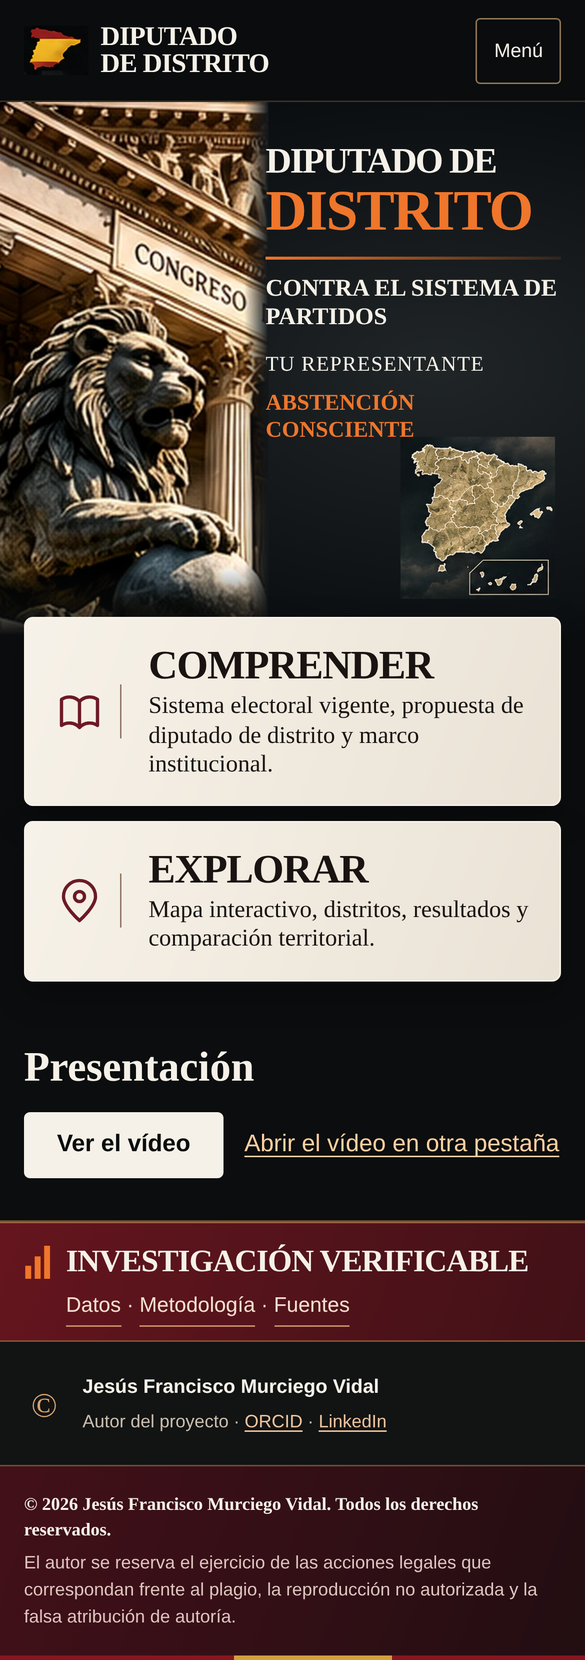
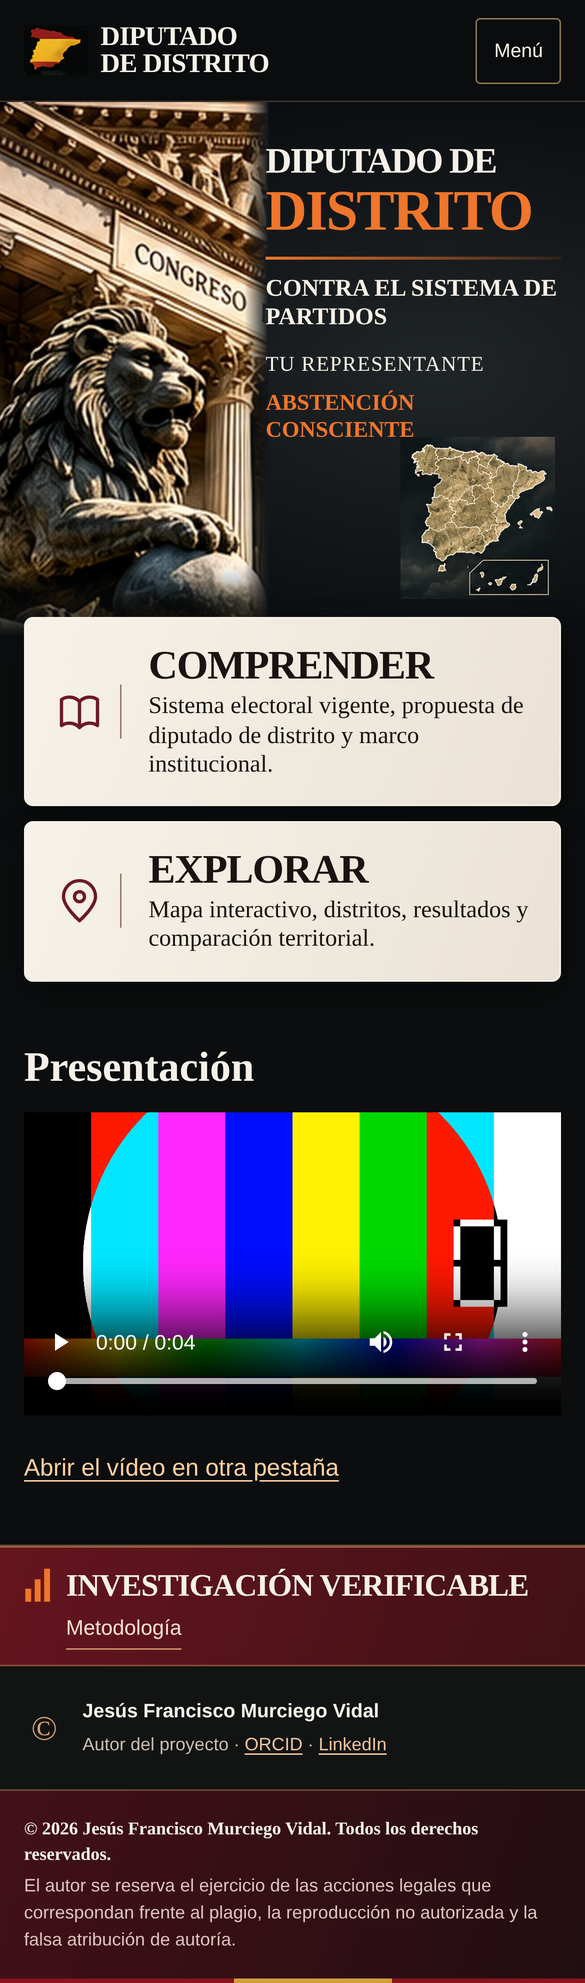
T-423: menú A (sin Datos ni Fuentes), vídeo de la portada desplegado sin autoplay, capturas nuevas
Claude-Session: https://claude.ai/code/session_01KQDtFsC2VMcbX4f4oMfUoC

diff --git a/visor/v4/app.js b/visor/v4/app.js
@@ -2,9 +2,10 @@
   'use strict';
   let controller;
 
-  /* Vídeo de presentación: se pinta solo si video.json trae una ruta de vídeo. Sin ruta, el bloque queda oculto.
-     No se carga el reproductor hasta que la persona pulsa «Ver el vídeo»; sin reproducción automática. */
-  function initVideo(root, signal) {
+  /* Vídeo de presentación (T-423): se pinta solo si video.json trae una ruta de vídeo; sin ruta, el bloque queda oculto.
+     El reproductor se ve desplegado desde el principio, con su póster (o el primer fotograma) y los controles a la vista;
+     nunca se reproduce solo ni suena hasta que la persona pulsa play. */
+  function initVideo(root) {
     const sec = root.querySelector('[data-video]');
     if (!sec || typeof fetch !== 'function') return;
     fetch('video.json', {cache: 'no-cache'}).then(r => (r.ok ? r.json() : null)).then(cfg => {
@@ -14,24 +15,31 @@
       if (!/^https:\/\//.test(url)) return;
       const cuerpo = sec.querySelector('[data-video-cuerpo]');
       cuerpo.textContent = '';
-      const boton = document.createElement('button');
-      boton.type = 'button';
-      boton.className = 'video-boton';
-      boton.textContent = 'Ver el vídeo';
+      const v = document.createElement('video');
+      v.controls = true;
+      v.preload = 'metadata';
+      v.playsInline = true;
+      v.setAttribute('playsinline', '');
+      v.className = 'video-reproductor';
+      // sin póster, «#t=0.1» hace que el navegador muestre el primer fotograma (Safari no lo pinta con t=0)
+      v.src = cfg.poster ? url : url + '#t=0.1';
+      if (cfg.poster) v.poster = join(cfg.poster);
+      if (cfg.subtitulos) {
+        const tr = document.createElement('track');
+        tr.kind = 'subtitles';
+        tr.srclang = 'es';
+        tr.label = 'Español';
+        tr.src = join(cfg.subtitulos);
+        tr.default = true;
+        v.appendChild(tr);
+      }
+      cuerpo.appendChild(v);
       const enlace = document.createElement('a');
       enlace.className = 'video-enlace';
       enlace.href = url;
       enlace.rel = 'noopener';
       enlace.textContent = 'Abrir el vídeo en otra pestaña';
-      if (cfg.poster) {
-        const img = document.createElement('img');
-        img.className = 'video-poster';
-        img.src = join(cfg.poster);
-        img.alt = '';
-        img.loading = 'lazy';
-        cuerpo.appendChild(img);
-      }
-      cuerpo.append(boton, enlace);
+      cuerpo.appendChild(enlace);
       if (cfg.transcripcion) {
         const t = document.createElement('a');
         t.className = 'video-enlace';
@@ -40,26 +48,6 @@
         t.textContent = 'Transcripción';
         cuerpo.appendChild(t);
       }
-      boton.addEventListener('click', () => {
-        const v = document.createElement('video');
-        v.controls = true;
-        v.preload = 'metadata';
-        v.playsInline = true;
-        v.src = url;
-        if (cfg.poster) v.poster = join(cfg.poster);
-        if (cfg.subtitulos) {
-          const tr = document.createElement('track');
-          tr.kind = 'subtitles';
-          tr.srclang = 'es';
-          tr.label = 'Español';
-          tr.src = join(cfg.subtitulos);
-          tr.default = true;
-          v.appendChild(tr);
-        }
-        cuerpo.textContent = '';
-        cuerpo.appendChild(v);
-        v.focus();
-      }, {signal});
       sec.hidden = false;
     }).catch(() => {});
   }

diff --git a/tests/test_visor_v4_video.js b/tests/test_visor_v4_video.js
@@ -1,0 +1,39 @@
+/* PROYECTO: Diputado de Distrito · CLASE: prueba del vídeo de la portada V4 (T-423)
+ * VERSIÓN: 1.0.0 · FECHA: 2026-11-19 · ESTADO: candidato · ANTERIOR: ninguna (fichero nuevo)
+ * CAMBIOS: el reproductor se ve desplegado sin pulsar nada (controles, primer fotograma o póster), sin reproducción automática ni sonido. */
+"use strict";
+const assert = require("node:assert/strict"), fs = require("node:fs"), path = require("node:path"), vm = require("node:vm");
+const src = fs.readFileSync(path.join(__dirname, "../visor/v4/app.js"), "utf8");
+function nodo(tag) { return { tag, children: [], attrs: {}, textContent: "", appendChild(c) { this.children.push(c); return c; }, setAttribute(k, v) { this.attrs[k] = v; },
+  addEventListener() {}, querySelector() { return null; }, querySelectorAll() { return []; }, classList: { add() {}, toggle() {}, remove() {}, contains() { return false; } } }; }
+async function correr(cfg) {
+  const cuerpo = nodo("div"), sec = { hidden: true, querySelector: q => (q === "[data-video-cuerpo]" ? cuerpo : null) };
+  const document = { readyState: "complete", documentElement: nodo("html"), createElement: nodo, addEventListener() {},
+    querySelector: q => (q === "[data-video]" ? sec : null), querySelectorAll: () => [] };
+  const ctx = { document, window: {}, AbortController, console, fetch: async u => ({ ok: u === "video.json", json: async () => cfg }) };
+  ctx.window = ctx; ctx.document.defaultView = ctx;
+  vm.runInNewContext(src, ctx);
+  for (let i = 0; i < 10; i++) await new Promise(r => setImmediate(r));
+  return { sec, cuerpo };
+}
+(async () => {
+  // 1. Sin póster: reproductor visible al cargar, con controles y el primer fotograma; sin autoplay, sin botón previo.
+  let { sec, cuerpo } = await correr({ base: "https://media.diputadodedistrito.es/", video: "Video_DDD.mp4", poster: "", subtitulos: "", transcripcion: "" });
+  assert.equal(sec.hidden, false, "el bloque del vídeo se ve sin pulsar nada");
+  const v = cuerpo.children[0];
+  assert.equal(v.tag, "video", "lo primero es el reproductor, no un botón");
+  assert.equal(v.controls, true); assert.equal(v.preload, "metadata"); assert.equal(v.playsInline, true);
+  assert.equal(v.src, "https://media.diputadodedistrito.es/Video_DDD.mp4#t=0.1", "primer fotograma visible");
+  assert.ok(!v.autoplay && !("autoplay" in v.attrs), "sin reproducción automática");
+  assert.ok(!cuerpo.children.some(c => c.tag === "button"), "sin botón «Ver el vídeo»");
+  // 2. Con póster: lo usa y no añade el fragmento de tiempo.
+  ({ cuerpo } = await correr({ base: "https://media.diputadodedistrito.es", video: "/v.mp4", poster: "p.webp", subtitulos: "", transcripcion: "" }));
+  assert.equal(cuerpo.children[0].poster, "https://media.diputadodedistrito.es/p.webp");
+  assert.equal(cuerpo.children[0].src, "https://media.diputadodedistrito.es/v.mp4");
+  // 3. Sin vídeo configurado o con URL no https: el bloque sigue oculto.
+  ({ sec } = await correr({ base: "https://media.diputadodedistrito.es/", video: "", poster: "", subtitulos: "", transcripcion: "" }));
+  assert.equal(sec.hidden, true);
+  ({ sec } = await correr({ base: "http://x.es/", video: "v.mp4", poster: "", subtitulos: "", transcripcion: "" }));
+  assert.equal(sec.hidden, true);
+  console.log("OK vídeo de la portada V4 desplegado");
+})().catch(e => { console.error(e); process.exitCode = 1; });

diff --git a/visor/v4/index.html b/visor/v4/index.html
@@ -12,7 +12,7 @@
 <a class="brand" href="index.html" aria-label="Diputado de Distrito, inicio"><img src="assets/logotipo_espana.webp" alt="" width="59" height="47"><span>DIPUTADO<br>DE DISTRITO</span></a>
 <button class="menu-toggle" type="button" data-menu aria-expanded="false" aria-controls="main-nav">Menú</button>
 <nav class="main-nav" id="main-nav" data-nav aria-label="Navegación principal">
-<a href="index.html" aria-current="page">Inicio</a><a href="comprender.html">Comprender</a><a href="mapa/">Explorar</a><a href="../docs/datos-abiertos.html">Datos</a><a href="../docs/metodo.html">Metodología</a><a href="../docs/fuentes.html">Fuentes</a>
+<a href="index.html" aria-current="page">Inicio</a><a href="comprender.html">Comprender</a><a href="mapa/">Explorar</a><a href="../docs/metodo.html">Metodología</a>
 </nav></div></header>
 <main id="contenido" tabindex="-1">
 <section class="hero" aria-labelledby="titulo-principal"><div class="hero-photo" aria-hidden="true"><img src="assets/congreso.webp" alt="" width="1016" height="598" fetchpriority="high" decoding="async"></div><figure class="hero-map" aria-hidden="true"><img src="assets/mapa_espana.webp" alt="" width="738" height="774" decoding="async"></figure><div class="wrap"><div class="hero-content">
@@ -27,7 +27,7 @@
 <section class="presentacion" id="presentacion" aria-labelledby="presentacion-titulo" data-video hidden>
 <div class="wrap"><h2 id="presentacion-titulo">Presentación</h2><div class="presentacion-cuerpo" data-video-cuerpo></div></div>
 </section>
-<section class="research" id="investigacion"><div class="wrap research-inner"><h2><svg class="research-icon" aria-hidden="true" viewBox="0 0 24 28"><path d="M1 17h5v11H1zM9 9h5v19H9zM17 0h5v28h-5z"/></svg>INVESTIGACIÓN VERIFICABLE</h2><p><a href="../docs/datos-abiertos.html">Datos</a> · <a href="../docs/metodo.html">Metodología</a> · <a href="../docs/fuentes.html">Fuentes</a></p></div></section>
+<section class="research" id="investigacion"><div class="wrap research-inner"><h2><svg class="research-icon" aria-hidden="true" viewBox="0 0 24 28"><path d="M1 17h5v11H1zM9 9h5v19H9zM17 0h5v28h-5z"/></svg>INVESTIGACIÓN VERIFICABLE</h2><p><a href="../docs/metodo.html">Metodología</a></p></div></section>
 <section class="audit-ribbon" aria-label="Registro y autoría"><div class="wrap audit-ribbon-inner">
 
 <div class="author-short"><span class="author-mark" aria-hidden="true">©</span><div><strong>Jesús Francisco Murciego Vidal</strong><span>Autor del proyecto · <a href="https://orcid.org/0009-0002-4434-959X" target="_blank" rel="noopener noreferrer">ORCID</a> · <a href="https://www.linkedin.com/in/jesusmurciego/" target="_blank" rel="noopener noreferrer">LinkedIn</a></span></div></div>

diff --git a/visor/v4/comprender.html b/visor/v4/comprender.html
@@ -4,7 +4,7 @@
 <a class="brand" href="index.html" aria-label="Diputado de Distrito, inicio"><img src="assets/logotipo_espana.webp" alt="" width="59" height="47"><span>DIPUTADO<br>DE DISTRITO</span></a>
 <button class="menu-toggle" type="button" data-menu aria-expanded="false" aria-controls="main-nav">Menú</button>
 <nav class="main-nav" id="main-nav" data-nav aria-label="Navegación principal">
-<a href="index.html">Inicio</a><a href="comprender.html" aria-current="page">Comprender</a><a href="mapa/">Explorar</a><a href="../docs/datos-abiertos.html">Datos</a><a href="../docs/metodo.html">Metodología</a><a href="../docs/fuentes.html">Fuentes</a>
+<a href="index.html">Inicio</a><a href="comprender.html" aria-current="page">Comprender</a><a href="mapa/">Explorar</a><a href="../docs/metodo.html">Metodología</a>
 </nav></div></header>
 <main id="contenido" tabindex="-1"><section class="detail-hero"><div class="wrap"><div class="kicker">Sistema representativo · Contexto del proyecto</div><h1>Comprender</h1><p>El proyecto plantea una representación vinculada al territorio. Esta página introduce sus conceptos y da acceso a los mapas y a sus publicaciones.</p></div></section><div class="wrap detail-content"><section class="detail-panel"><header><h2>Sistema y distritos</h2></header><div class="contents"><p>La circunscripción delimita el territorio al que se atribuyen escaños. Un mapa electoral permite explorar criterios de delimitación, población, relación entre territorio y representación, y resultados agregados.</p><p>La propuesta Diputado de Distrito plantea una estructura de representación territorial que debe distinguirse de los resultados de elecciones celebradas bajo el sistema vigente.</p><p><a class="page-action" href="mapa/">Abrir el visor interactivo</a></p></div></section><aside class="detail-panel"><header><h2>Publicaciones y datos</h2></header><div class="contents"><p>La investigación se documentará con metodología, fuentes, versiones y registro individual de cada mapa.</p></div></aside></div><section class="doble-vuelta" id="doble-vuelta" aria-labelledby="dv-titulo">
 <div class="wrap">

diff --git a/visor/v4/auditoria-registro.html b/visor/v4/auditoria-registro.html
@@ -4,7 +4,7 @@
 <a class="brand" href="index.html" aria-label="Diputado de Distrito, inicio"><img src="assets/logotipo_espana.webp" alt="" width="59" height="47"><span>DIPUTADO<br>DE DISTRITO</span></a>
 <button class="menu-toggle" type="button" data-menu aria-expanded="false" aria-controls="main-nav">Menú</button>
 <nav class="main-nav" id="main-nav" data-nav aria-label="Navegación principal">
-<a href="index.html">Inicio</a><a href="comprender.html">Comprender</a><a href="mapa/">Explorar</a><a href="../docs/datos-abiertos.html">Datos</a><a href="../docs/metodo.html">Metodología</a><a href="../docs/fuentes.html">Fuentes</a>
+<a href="index.html">Inicio</a><a href="comprender.html">Comprender</a><a href="mapa/">Explorar</a><a href="../docs/metodo.html">Metodología</a>
 </nav></div></header>
 <main id="contenido" tabindex="-1"><section class="detail-hero"><div class="wrap"><div class="kicker">Publicaciones · Procedencia · Derechos</div><h1>Auditoría y registro</h1><p>Cada mapa tiene su propia ficha de publicación. Consulta su DOI, la versión documentada y la información de autoría.</p></div></section>
 <div class="wrap detail-content"><section class="detail-panel" aria-labelledby="doi-title"><header><h2 id="doi-title">DOI de cada mapa</h2></header><div class="contents"><p>El DOI corresponde a cada mapa y a la publicación que documenta su versión. Cada ficha reúne su ámbito territorial, fecha y procedencia.</p><label class="catalog-label" for="search-map">Buscar mapa registrado</label><input class="catalog-search" id="search-map" data-doi-search type="search" placeholder="Mapa, provincia o comunidad autónoma"><div data-doi-list aria-live="polite"><p class="empty">Todavía no hay fichas de mapas incorporadas a este catálogo.</p></div><div class="provenance" id="procedencia"><h3>Procedencia de los recursos</h3><p>Las imágenes de portada son ilustraciones generadas elegidas para la identidad visual del proyecto. El mapa de la cabecera es decorativo; la cartografía y los datos se consultan en el visor.</p><a class="page-action" href="mapa/">Consultar el visor</a></div></div></section>

diff --git a/documentacion_publica/overrides/main.html b/documentacion_publica/overrides/main.html
@@ -1,5 +1,5 @@
 {#- PROYECTO: Diputado de Distrito · VERSIÓN: 1.0.0 · FECHA: 2026-11-19 · ESTADO: candidato
-    CAMBIOS: T-423, cabecera, menú único y pie de la V4 (visor/v4/index.html) en Datos, Metodología y Fuentes.
+    CAMBIOS: T-423, cabecera única (visor/v4/cabecera.html), menú y pie de la V4 en la documentación (Metodología).
     MOTIVO: todo el sitio dentro del diseño de la V4 (propietario, 19-11). ANTERIOR: ninguna (fichero nuevo) -#}
 {% extends "base.html" %}
 {% block header %}
@@ -8,7 +8,7 @@
 <a class="brand" href="../v4/index.html" aria-label="Diputado de Distrito, inicio"><img src="../v4/assets/logotipo_espana.webp" alt="" width="59" height="47"><span>DIPUTADO<br>DE DISTRITO</span></a>
 <button class="menu-toggle" type="button" data-menu aria-expanded="false" aria-controls="main-nav">Menú</button>
 <nav class="main-nav" id="main-nav" data-nav aria-label="Navegación principal">
-<a href="../v4/index.html">Inicio</a><a href="../v4/comprender.html">Comprender</a><a href="../v4/mapa/">Explorar</a><a href="datos-abiertos.html"{% if actual == "datos-abiertos.html" %} aria-current="page"{% endif %}>Datos</a><a href="metodo.html"{% if actual == "metodo.html" %} aria-current="page"{% endif %}>Metodología</a><a href="fuentes.html"{% if actual == "fuentes.html" %} aria-current="page"{% endif %}>Fuentes</a>
+<a href="../v4/index.html">Inicio</a><a href="../v4/comprender.html">Comprender</a><a href="../v4/mapa/">Explorar</a><a href="metodo.html"{% if actual == "metodo.html" %} aria-current="page"{% endif %}>Metodología</a>
 </nav></div></header>
 {% endblock %}
 {% block footer %}

diff --git a/visor/v4/cabecera.html b/visor/v4/cabecera.html
@@ -1,9 +1,9 @@
-<!-- Cabecera única de la V4 (T-423): todas las páginas (portada, Comprender, Explorar, Datos, Metodología, Fuentes y las internas)
+<!-- Cabecera única de la V4 (T-423): todas las páginas (portada, Comprender, Explorar, Metodología y las internas)
      la copian tal cual con {V4} = ruta a visor/v4/ y {DOCS} = ruta a las páginas de documentación; solo cambia aria-current.
      tests/test_visor_v4_base.py compara cada página con esta plantilla. -->
 <header class="site-header v4-header"><div class="wrap header-inner">
 <a class="brand" href="{V4}index.html" aria-label="Diputado de Distrito, inicio"><img src="{V4}assets/logotipo_espana.webp" alt="" width="59" height="47"><span>DIPUTADO<br>DE DISTRITO</span></a>
 <button class="menu-toggle" type="button" data-menu aria-expanded="false" aria-controls="main-nav">Menú</button>
 <nav class="main-nav" id="main-nav" data-nav aria-label="Navegación principal">
-<a href="{V4}index.html">Inicio</a><a href="{V4}comprender.html">Comprender</a><a href="{V4}mapa/">Explorar</a><a href="{DOCS}datos-abiertos.html">Datos</a><a href="{DOCS}metodo.html">Metodología</a><a href="{DOCS}fuentes.html">Fuentes</a>
+<a href="{V4}index.html">Inicio</a><a href="{V4}comprender.html">Comprender</a><a href="{V4}mapa/">Explorar</a><a href="{DOCS}metodo.html">Metodología</a>
 </nav></div></header>

diff --git a/visor/v4/mapa/index.html b/visor/v4/mapa/index.html
@@ -21,7 +21,7 @@
 <a class="brand" href="../index.html" aria-label="Diputado de Distrito, inicio"><img src="../assets/logotipo_espana.webp" alt="" width="59" height="47"><span>DIPUTADO<br>DE DISTRITO</span></a>
 <button class="menu-toggle" type="button" data-menu aria-expanded="false" aria-controls="main-nav">Menú</button>
 <nav class="main-nav" id="main-nav" data-nav aria-label="Navegación principal">
-<a href="../index.html">Inicio</a><a href="../comprender.html">Comprender</a><a href="../mapa/" aria-current="page">Explorar</a><a href="../../docs/datos-abiertos.html">Datos</a><a href="../../docs/metodo.html">Metodología</a><a href="../../docs/fuentes.html">Fuentes</a>
+<a href="../index.html">Inicio</a><a href="../comprender.html">Comprender</a><a href="../mapa/" aria-current="page">Explorar</a><a href="../../docs/metodo.html">Metodología</a>
 </nav></div></header>
 <div class="app">
   <nav class="modes" aria-label="Modalidad de análisis">

diff --git a/tests/test_visor_v4_base.py b/tests/test_visor_v4_base.py
@@ -58,7 +58,7 @@ class PortadaV4(unittest.TestCase):
     def test_cabecera_identica_en_todas_las_paginas(self):
         # T-423: una sola plantilla (visor/v4/cabecera.html); cada página la copia con sus rutas; solo cambia aria-current
         plantilla = _txt("cabecera.html").split("-->\n", 1)[1].strip()
-        self.assertEqual(plantilla.count("<a "), 7)  # marca + 6 del menú; sin botones a la derecha en ninguna página
+        self.assertEqual(plantilla.count("<a "), 5)  # marca + 4 del menú; sin botones a la derecha en ninguna página
         quitar = lambda h: re.sub(r'\{% if actual == "[^"]+" %\}|\{% endif %\}| aria-current="page"', "", h)
         paginas = {"index.html": ("", "../docs/"), "comprender.html": ("", "../docs/"), "auditoria-registro.html": ("", "../docs/"),
                    "mapa/index.html": ("../", "../../docs/")}
@@ -93,13 +93,17 @@ class PortadaV4(unittest.TestCase):
 
     def test_menu_unico_e_investigacion(self):
         # T-423: un solo menú en portada, Comprender y Explorar; «Investigación» enlaza Datos, Metodología y Fuentes
-        menu = ["Inicio", "Comprender", "Explorar", "Datos", "Metodología", "Fuentes"]
+        # opción A del propietario (19-11): Datos y Fuentes fuera del menú y de cualquier enlace visible de la V4
+        menu = ["Inicio", "Comprender", "Explorar", "Metodología"]
         for pag in ("index.html", "comprender.html", "mapa/index.html"):
             nav = re.search(r'<nav class="main-nav"[^>]*>(.*?)</nav>', _txt(pag), re.S).group(1)
             self.assertEqual(re.findall(r">([^<]+)</a>", nav), menu, pag)
         inv = re.search(r'id="investigacion".*?</section>', _txt("index.html"), re.S).group(0)
-        for ref in ("../docs/datos-abiertos.html", "../docs/metodo.html", "../docs/fuentes.html"):
-            self.assertIn(f'href="{ref}"', inv)
+        self.assertIn('href="../docs/metodo.html"', inv)
+        zens = (DOCS.parent / "overrides/main.html").read_text(encoding="utf-8")
+        toml = (DOCS.parent / "zensical.toml").read_text(encoding="utf-8")
+        for t in [_txt(p) for p in ("index.html", "comprender.html", "mapa/index.html", "cabecera.html", "app.js")] + [zens, toml, (DOCS / "index.md").read_text(encoding="utf-8")]:
+            self.assertNotRegex(t, r"datos-abiertos\.(html|md)|fuentes\.(html|md)")
 
     def test_sin_nomenclatura_vieja(self):
         for pag in PAGINAS:
@@ -140,6 +144,14 @@ class PortadaV4(unittest.TestCase):
         self.assertRegex(h, r'<section[^>]*data-video[^>]*\bhidden\b')
         self.assertNotIn("<video", h)  # el reproductor no se carga hasta pulsar
         self.assertNotRegex(_txt("app.js"), r"autoplay")
+
+    def test_video_desplegado_sin_autoplay(self):
+        # T-423: reproductor visible sin pulsar nada, con su fotograma o póster; sin reproducción automática ni sonido
+        import shutil, subprocess
+        if not shutil.which("node"):
+            self.skipTest("sin node")
+        r = subprocess.run(["node", str(V4.parent.parent / "tests/test_visor_v4_video.js")], capture_output=True, text=True)
+        self.assertEqual(r.returncode, 0, r.stdout + r.stderr)
 
     def test_doble_vuelta_en_comprender(self):
         h = _txt("comprender.html")

diff --git a/docs/registro/2026-11-19_t423-v4-v3-completa.md b/docs/registro/2026-11-19_t423-v4-v3-completa.md
@@ -1,6 +1,6 @@
 ## 2026-11-19 — T-423 — V4: portada + Explorar con la V3 completa y la doble vuelta como capa electoral
 
 **Causa.** Error de planificación: `visor/v4/mapa/` era un mapa simple en SVG, de un territorio cada vez, sin vista nacional ni secciones. El propietario: «era solo añadir una portada y mantener el resto de V3 enriqueciéndolo con la doble vuelta como capa electoral»; después, todo dentro del diseño de la V4 con un solo menú (Planificador, 19-11).
-**Cambio.** `visor/v4/mapa/` = copia íntegra de la V3 (`explorar.js`/`explorar.css`/`index.html`/`calendario.json`: MapLibre, vista nacional, comunidad, provincia, distrito, municipio y sección censal, calendario, paletas, paneles, procedencia, galería y tabla), rutas a `../../`, con cabecera, menú único (Inicio · Comprender · Explorar · Datos · Metodología · Fuentes), paleta y pie de la V4. Capa electoral nueva «Doble vuelta» (por defecto, D-172): «Tres bloques» (dv_A), «Dos bloques» (dv_B), «Sin coaliciones» (dv_base) y «Más votado» (primero); color por bloque (claro si la ventaja < 5 puntos), sección con el bloque de su distrito, ficha con 1.ª y 2.ª vuelta, transferencias y comparación entre reglas, aviso fijo «Simulación sin valor oficial». Lee `v4/mapa/datos/` (P40, `herramientas/publicar_doble_vuelta.py`, #927/#937) y verifica el sha256 de cada CSV; si no casa, ese territorio queda sin color (fallo cerrado). El mapa simple pasa a `legacy/visor/v4/mapa_simple_t413_20261119/`. Portada y Comprender: menú único; «Investigación» enlaza Datos, Metodología y Fuentes. Documentación pública (Zensical 1.2.0): tema V4 (`docs/estilos/v4.css`) y cabecera, menú y pie de la V4 (`overrides/main.html`). Cabecera única (`visor/v4/cabecera.html`, no se publica): todas las páginas de la V4 y de la documentación la copian igual (sin botones a la derecha; la ayuda de Explorar pasa a la barra del mapa). Texto visible con la nomenclatura P de D-165 (P21–P26, P31, P32) en Explorar y en Metodología, Datos y Archivo; ids de datos y ficheros intactos (T-313). `visor/v3/` no cambia; no toca workflows ni datos. Preview en `docs/ESTUDIOS/T423_V4/preview/` (datos de doble vuelta ficticios).
-**Pruebas.** `tests/test_visor_v4_mapa.py` 2.0.0: la V4 tiene todas las capas, niveles (incluida la sección), controles, capas MapLibre, funciones y fuentes de la V3; la V3 coincide byte a byte con `main` (sha256 literales); el mapa simple ya no está. `tests/test_visor_v4_explorar.js` (navegador simulado con los 52 nac reales de `datos_abiertos/INDEX.json`): capa DV en los 52, cuatro reglas, ficha, sección, cambio de capa y de elección y huella mala. `test_visor_v4_base` (menú único, «Investigación», cabecera idéntica a la plantilla en todas las páginas y ningún `M01…M08` en el texto visible de la V4 ni de la documentación); ajustes de rutas en `test_t419_publicar_doble_vuelta` y exención en `test_t220_renombrado` (la copia de la V3 conserva sus ids públicos, como la V3). `zensical build --strict` y auditoría de la documentación en verde.
+**Cambio.** `visor/v4/mapa/` = copia íntegra de la V3 (`explorar.js`/`explorar.css`/`index.html`/`calendario.json`: MapLibre, vista nacional, comunidad, provincia, distrito, municipio y sección censal, calendario, paletas, paneles, procedencia, galería y tabla), rutas a `../../`, con cabecera, menú único (Inicio · Comprender · Explorar · Metodología; Datos y Fuentes fuera del menú y de todo enlace visible de la V4, opción A del propietario: tarea aparte), paleta y pie de la V4. Capa electoral nueva «Doble vuelta» (por defecto, D-172): «Tres bloques» (dv_A), «Dos bloques» (dv_B), «Sin coaliciones» (dv_base) y «Más votado» (primero); color por bloque (claro si la ventaja < 5 puntos), sección con el bloque de su distrito, ficha con 1.ª y 2.ª vuelta, transferencias y comparación entre reglas, aviso fijo «Simulación sin valor oficial». Lee `v4/mapa/datos/` (P40, `herramientas/publicar_doble_vuelta.py`, #927/#937) y verifica el sha256 de cada CSV; si no casa, ese territorio queda sin color (fallo cerrado). El mapa simple pasa a `legacy/visor/v4/mapa_simple_t413_20261119/`. Portada y Comprender: menú único; «Investigación» enlaza Metodología. Vídeo de la portada desplegado por defecto (reproductor visible con su primer fotograma o póster y los controles; sin reproducción automática). Documentación pública (Zensical 1.2.0): tema V4 (`docs/estilos/v4.css`), cabecera, menú y pie de la V4 (`overrides/main.html`); Datos y Fuentes salen del nav y de la página de inicio (las páginas siguen generándose para los enlaces de la V3). Cabecera única (`visor/v4/cabecera.html`, no se publica): todas las páginas de la V4 y de la documentación la copian igual (sin botones a la derecha; la ayuda de Explorar pasa a la barra del mapa). Texto visible con la nomenclatura P de D-165 (P21–P26, P31, P32) en Explorar y en Metodología, Datos y Archivo; ids de datos y ficheros intactos (T-313). `visor/v3/` no cambia; no toca workflows ni datos. Preview en `docs/ESTUDIOS/T423_V4/preview/` (datos de doble vuelta ficticios).
+**Pruebas.** `tests/test_visor_v4_mapa.py` 2.0.0: la V4 tiene todas las capas, niveles (incluida la sección), controles, capas MapLibre, funciones y fuentes de la V3; la V3 coincide byte a byte con `main` (sha256 literales); el mapa simple ya no está. `tests/test_visor_v4_explorar.js` (navegador simulado con los 52 nac reales de `datos_abiertos/INDEX.json`): capa DV en los 52, cuatro reglas, ficha, sección, cambio de capa y de elección y huella mala. `test_visor_v4_base` (menú único, «Investigación», cabecera idéntica a la plantilla en todas las páginas ningún `M01…M08` en el texto visible de la V4 ni de la documentación, ningún enlace a Datos o Fuentes); `tests/test_visor_v4_video.js` (reproductor visible sin pulsar, controles, primer fotograma o póster, sin autoplay; oculto sin vídeo o sin https); ajustes de rutas en `test_t419_publicar_doble_vuelta` y exención en `test_t220_renombrado` (la copia de la V3 conserva sus ids públicos, como la V3). `zensical build --strict` y auditoría de la documentación en verde.
 **Riesgos.** La capa DV necesita `configuracion/doble_vuelta_publicada.json` y el paso de P40; sin él, Explorar avisa y sigue funcionando como la V3. Son 104 CSV más en la vista nacional (carga perezosa, 6 en paralelo). La documentación de `/docs/` cambia de aspecto también para quien llega desde la V3. PR `no-automerge`; sin lanzar ni publicar.

diff --git a/documentacion_publica/docs/index.md b/documentacion_publica/docs/index.md
@@ -2,14 +2,14 @@
 
 ## Comprender, comprobar y reutilizar
 
-DDD construye y estudia distritos uninominales a partir de unidades censales oficiales. Es un **mapa de investigación sin valor oficial**. Esta documentación recoge solo contenido estable: método, fuentes, datos abiertos y cómo citarlos.
+DDD construye y estudia distritos uninominales a partir de unidades censales oficiales. Es un **mapa de investigación sin valor oficial**. Esta documentación recoge solo contenido estable: método y cómo citarlo.
 
 | Buscas… | Empieza aquí |
 |---|---|
 | Entender cómo se forman los distritos | [Método](metodo.md) |
-| Saber de dónde proceden los datos | [Fuentes y derechos de uso](fuentes.md) |
-| Descargar datos y conocer su licencia | [Datos abiertos y licencia](datos-abiertos.md) |
 | Citar el proyecto o sus datos | [Cómo citar](citar.md) |
 | Ver cómo se conservan los archivos pesados | [Archivo con R2](archivo-r2.md) |
 
 [Abrir el visor](../index.html) · [Código del proyecto](https://github.com/jfmurciego/DiputadodeDistrito)
+
+*Versión 1.1.0 · 2026-11-19 · T-423: Datos y Fuentes salen del menú y de los enlaces de la V4 (decisión del propietario, opción A; se desarrollarán en una tarea aparte). Anterior: `legacy/documentacion_publica/docs/index_pre_t423_20261119.md`.*

diff --git a/docs/ESTUDIOS/T423_V4/preview/README.md b/docs/ESTUDIOS/T423_V4/preview/README.md
@@ -7,4 +7,4 @@ mismos pasos que P40 (`datos/` desde los blobs del registro, secciones del secci
 el mapa): no son resultados. En el sitio real la capa lee lo que deja P40 en `v4/mapa/datos/` (`herramientas/publicar_doble_vuelta.py`).
 
 1. Portada · 2. Explorar, vista nacional, «Tres bloques» · 3. Explorar, Madrid a nivel de sección censal ·
-4. Ficha de un distrito con primera y segunda vuelta · 5. Metodología, 6. Datos y 7. Comprender con la cabecera única, el menú y el pie de la V4 (nomenclatura P de D-165 en el texto).
+4. Ficha de un distrito con primera y segunda vuelta · 5. Metodología y 7. Comprender con la cabecera única, el menú (Inicio · Comprender · Explorar · Metodología) y el pie de la V4 (nomenclatura P de D-165 en el texto). 0. Vídeo de la portada desplegado sin pulsar nada (en la captura, un vídeo de prueba local en lugar del real, porque el dominio de vídeos no es accesible desde la sesión; se comprobó: visible, en pausa, sin autoplay, con controles y primer fotograma).
